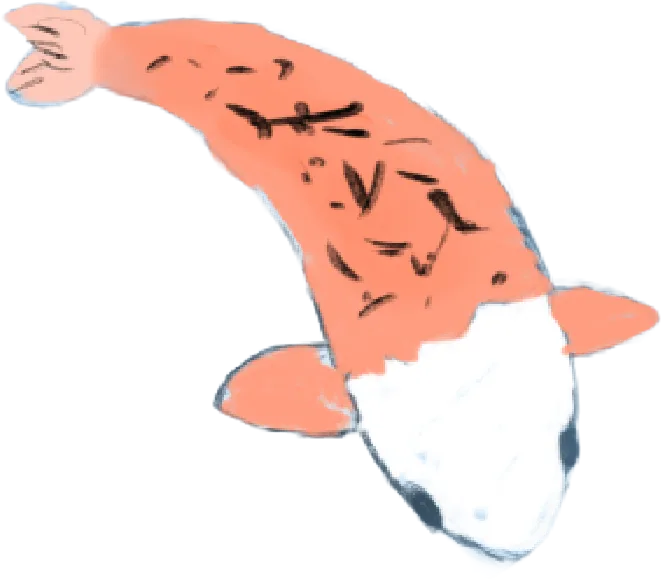
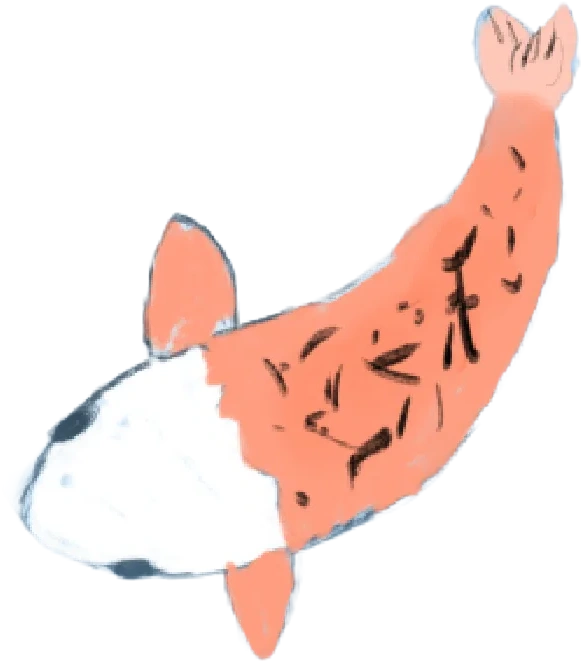
Remove duplicate fish35, rotate fish34 90deg clockwise
fish35 was an uncolored duplicate of the same line-art/pose as
fish34 - removed its FISH array entry, EMBEDDED_IMAGES entry, and
image file entirely.

fish34 was swimming head-down; rotated the artwork 90 degrees
clockwise so it swims head-left instead (PIL rotate(-90,
expand=True), canvas resized from 663x581 to 581x663 to fit without
cropping).

Verified live: 74 fish total (was 75), fish35 fully gone from
EMBEDDED_IMAGES, fish34 still present with its creator intact, no
console errors.

diff --git a/deploy/feeling-fishy/index.html b/deploy/feeling-fishy/index.html
@@ -80,7 +80,6 @@ const EMBEDDED_IMAGES = {
   fish32: "images/fish/fish32.webp",
   fish33: "images/fish/fish33.webp",
   fish34: "images/fish/fish34.webp",
-  fish35: "images/fish/fish35.webp",
   fish36: "images/fish/fish36.webp",
   fish37: "images/fish/fish37.webp",
   fish38: "images/fish/fish38.webp",
@@ -419,7 +418,6 @@ const FISH = [
   { name: "", creator: "Tita", bio: "", image: EMBEDDED_IMAGES.fish32, sound: EMBEDDED_AUDIO.chime, height: 28, size: 150 },
   { name: "", creator: "Luca", bio: "", image: EMBEDDED_IMAGES.fish33, sound: EMBEDDED_AUDIO.chime, height: 48, size: 140 },
   { name: "", creator: "Lynn", bio: "", image: EMBEDDED_IMAGES.fish34, sound: EMBEDDED_AUDIO.chime, height: 20, size: 150 },
-  { name: "", creator: "Lynn", bio: "", image: EMBEDDED_IMAGES.fish35, sound: EMBEDDED_AUDIO.chime, height: 58, size: 145 },
   { name: "", creator: "Omar", bio: "", image: EMBEDDED_IMAGES.fish36, sound: EMBEDDED_AUDIO.chime, height: 38, size: 130 },
   { name: "", creator: "Ugo", bio: "", image: EMBEDDED_IMAGES.fish37, sound: EMBEDDED_AUDIO.chime, height: 18, size: 130 },
   { name: "", creator: "Felix", bio: "", image: EMBEDDED_IMAGES.fish38, sound: EMBEDDED_AUDIO.chime, height: 32, size: 140 },
